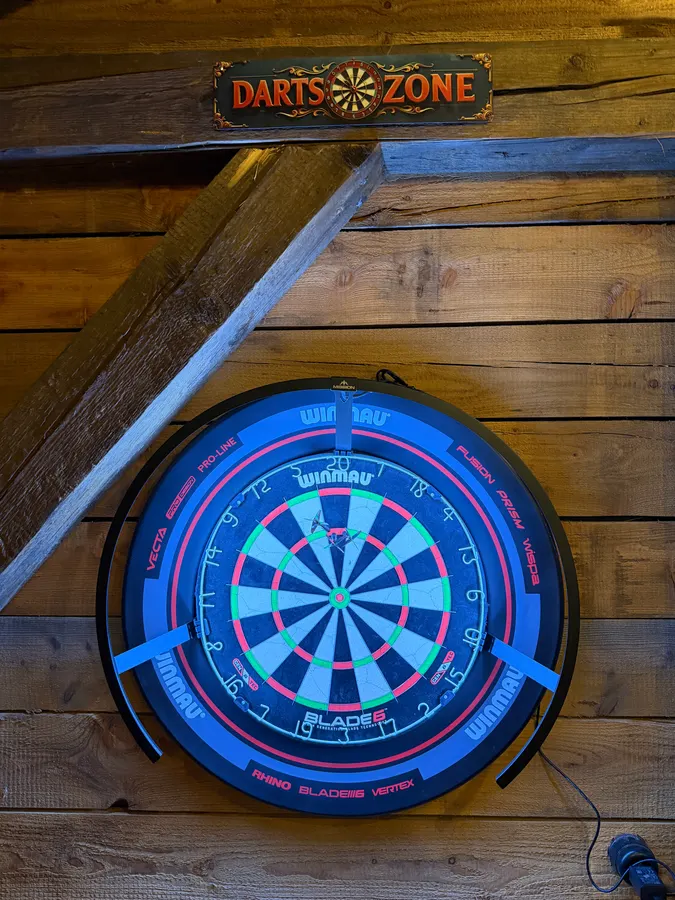
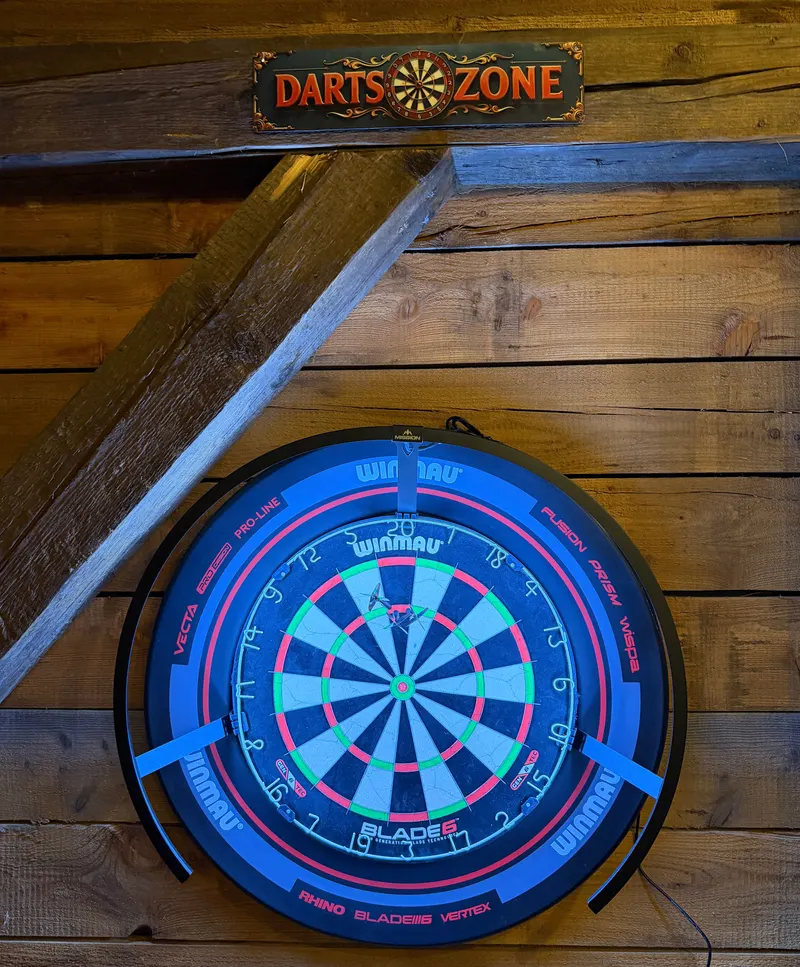
Stodola: nové fotky interiéru a šipek, Původ jména bez popisku
- hlavní fotka stodoly nahrazena vlastní fotkou interiéru
- nová fotka „Šipky na dlouhé večery“ s cedulí Darts Zone
- odstraněn popisek „Hlinsko + hlína“ u fotek v sekci Původ jména

diff --git a/src/components/Barn.jsx b/src/components/Barn.jsx
@@ -1,4 +1,4 @@
-import barnImg from '../assets/figma/barn.webp';
+import barnImg from '../assets/photos/stodola-interier.webp';
 import tableImg from '../assets/photos/stodola-stul.webp';
 import kitchenImg from '../assets/photos/stodola-kuchynka.webp';
 import dartsImg from '../assets/photos/stodola-sipky.webp';
@@ -9,7 +9,7 @@ import './Barn.css';
 const INSIDE = [
   { src: tableImg, alt: 'Velký dřevěný stůl ve stodole', title: 'Stůl pro celou partu' },
   { src: kitchenImg, alt: 'Kuchyňka s vinotékou a krbovými kamny ve stodole', title: 'Kuchyňka a krbová kamna' },
-  { src: dartsImg, alt: 'Šipkový terč s osvětlením na stěně stodoly', title: 'Šipky na dlouhé večery' },
+  { src: dartsImg, alt: 'Osvětlený šipkový terč s cedulí Darts Zone na dřevěné stěně stodoly', title: 'Šipky na dlouhé večery' },
 ];
 
 export default function Barn() {
@@ -21,7 +21,7 @@ export default function Barn() {
         </SectionHead>
 
         <figure className="barn__photo" data-reveal="zoom">
-          <img src={barnImg} alt="Stodola s dřevěnou terasou a venkovním posezením" loading="lazy" />
+          <img src={barnImg} alt="Interiér stodoly s dlouhými dubovými stoly, krbovými kamny a kuchyňkou" loading="lazy" />
         </figure>
 
         <p className="barn__text" data-reveal>

diff --git a/src/components/NameOrigin.css b/src/components/NameOrigin.css
@@ -136,16 +136,6 @@
   box-shadow: 0 24px 50px -30px rgba(0, 0, 0, 0.45);
 }
 
-.origin__caption {
-  position: absolute;
-  right: 0;
-  bottom: 22px;
-  font-family: var(--font-serif);
-  font-style: italic;
-  font-size: 15px;
-  color: var(--brown-dark);
-}
-
 /* ---------- responzivita ---------- */
 @media (max-width: 1100px) {
   .origin__inner {
@@ -179,9 +169,5 @@
   .origin__item {
     grid-template-columns: 44px minmax(0, 1fr);
     padding: 22px 0;
-  }
-  .origin__caption {
-    bottom: 12px;
-    font-size: 13px;
   }
 }

diff --git a/src/components/NameOrigin.jsx b/src/components/NameOrigin.jsx
@@ -70,9 +70,6 @@ export default function NameOrigin() {
           <figure className="origin__photo origin__photo--small" data-reveal style={{ '--d': '200ms' }}>
             <img src={placeImg} alt="Chata Hliněnka v krajině pod Hostýnskými vrchy" loading="lazy" />
           </figure>
-          <p className="origin__caption" data-reveal style={{ '--d': '300ms' }}>
-            Hlinsko + hlína
-          </p>
         </div>
       </div>
     </section>
